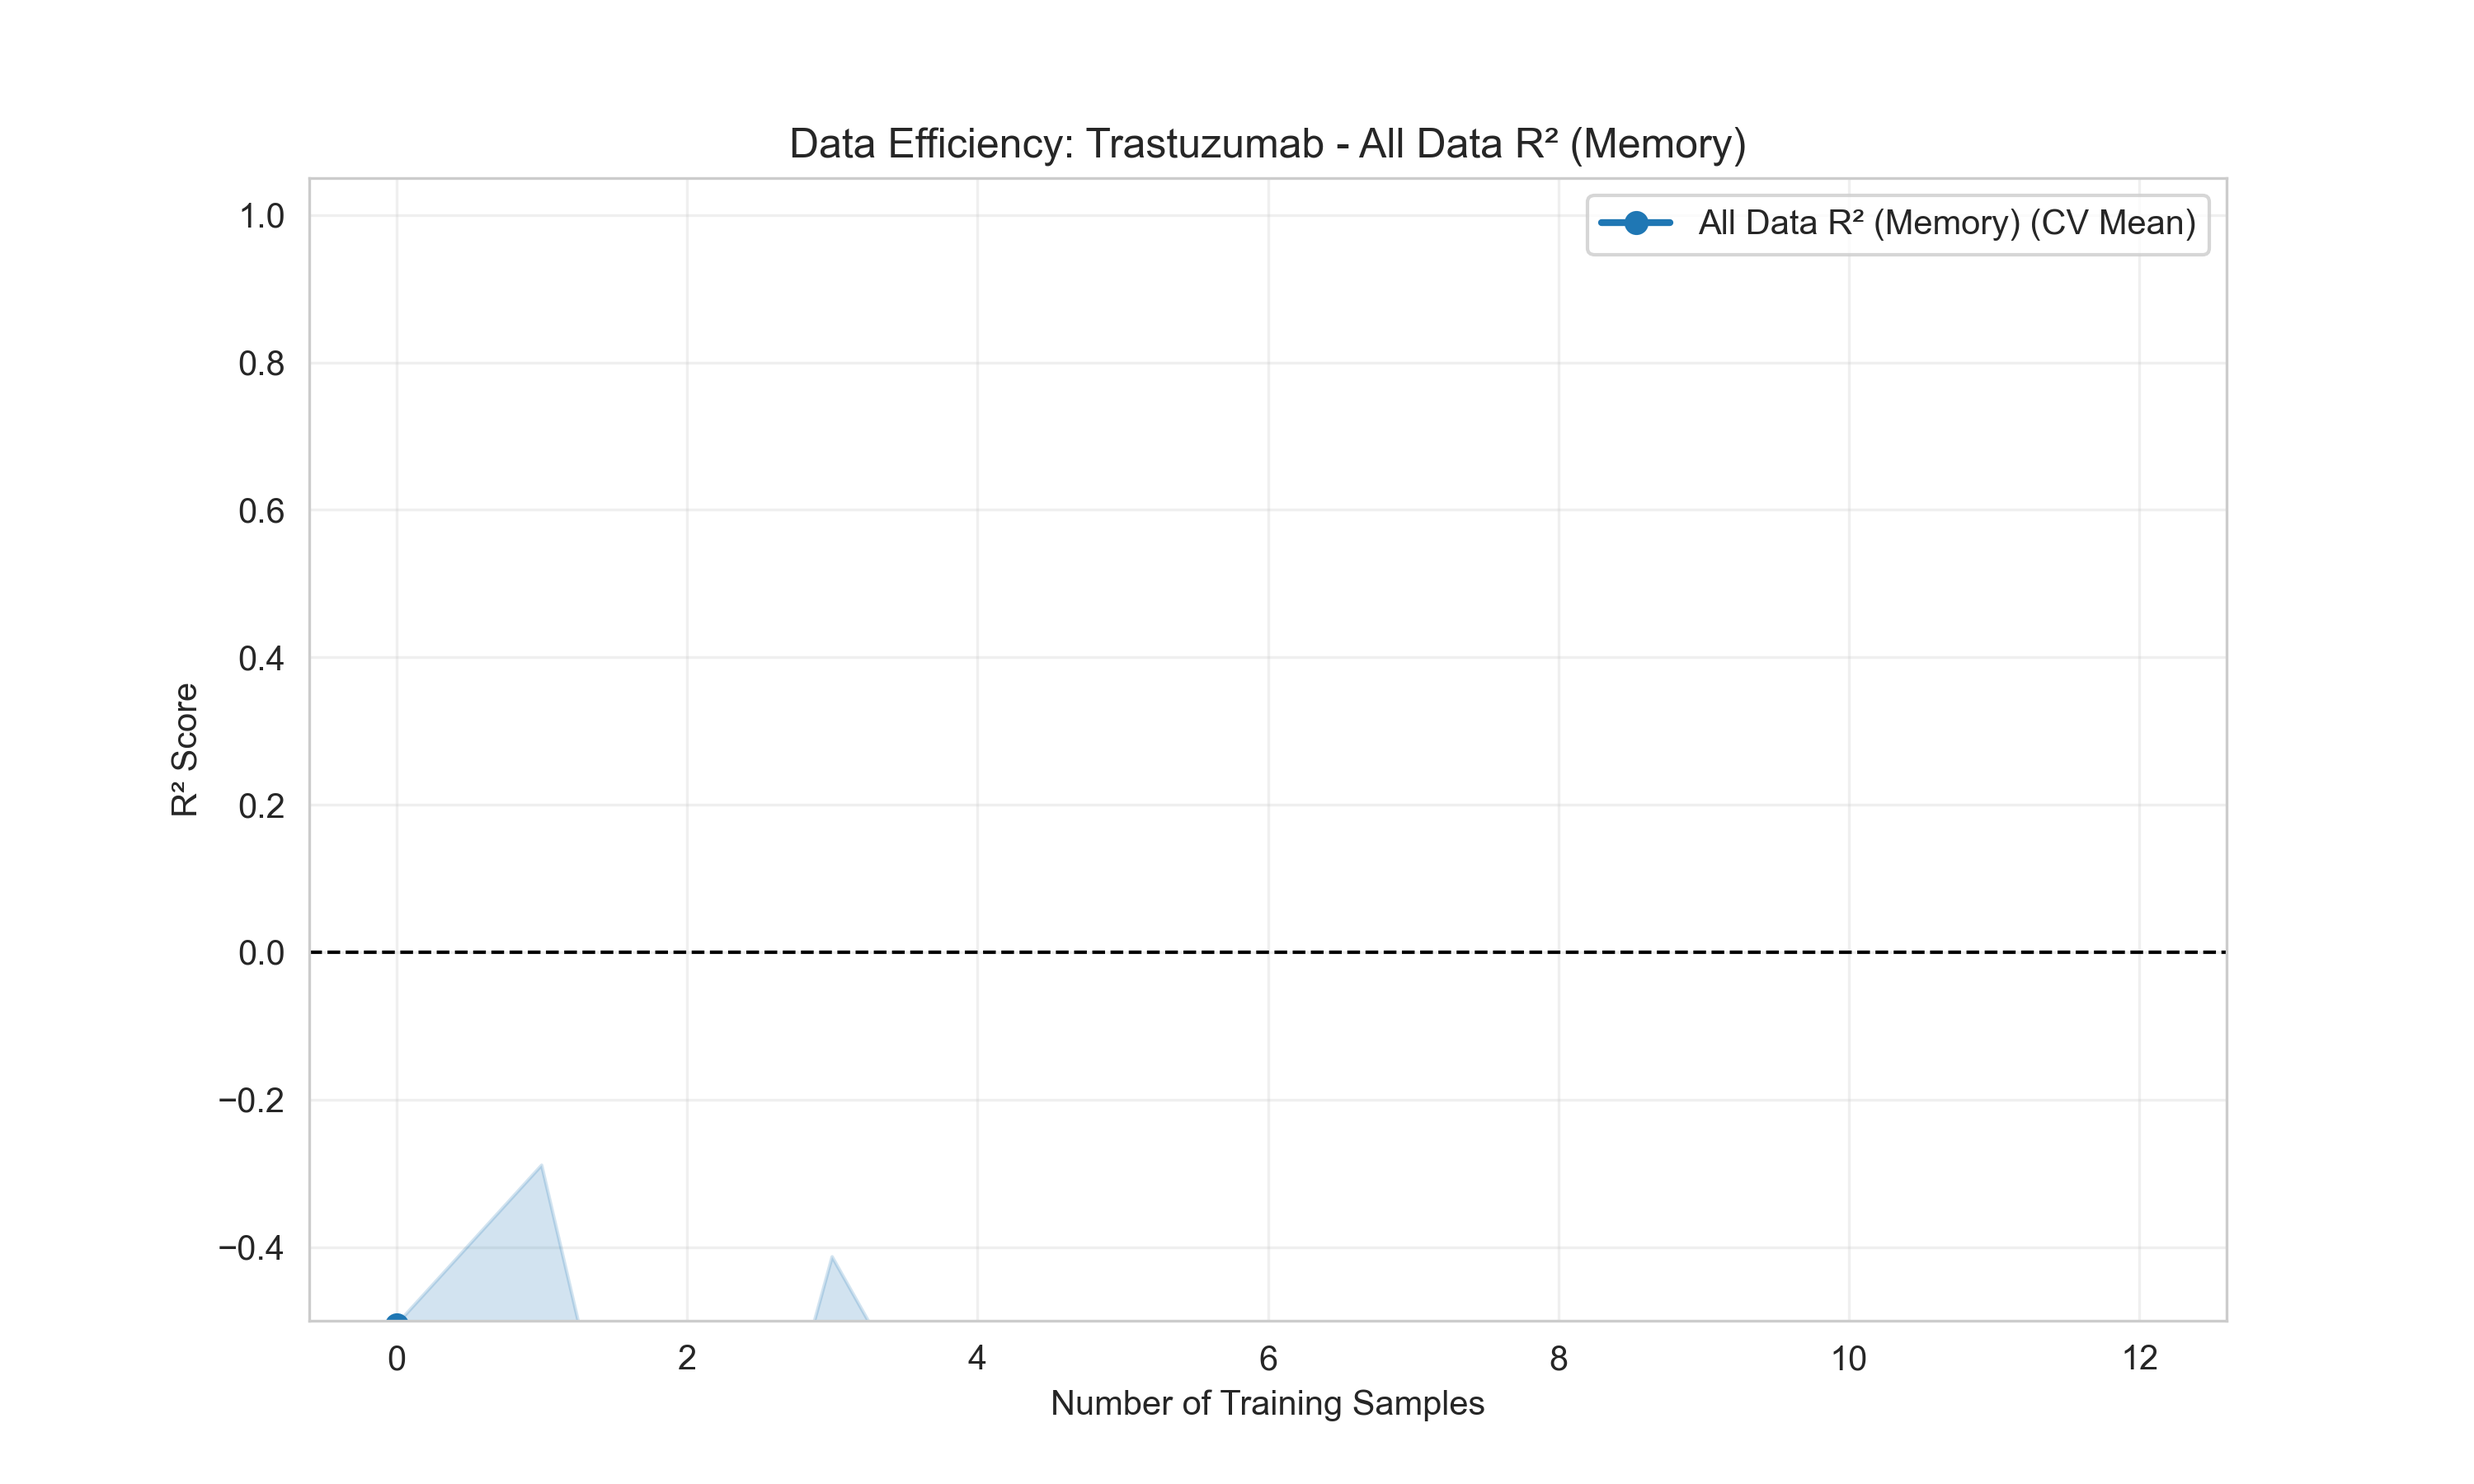
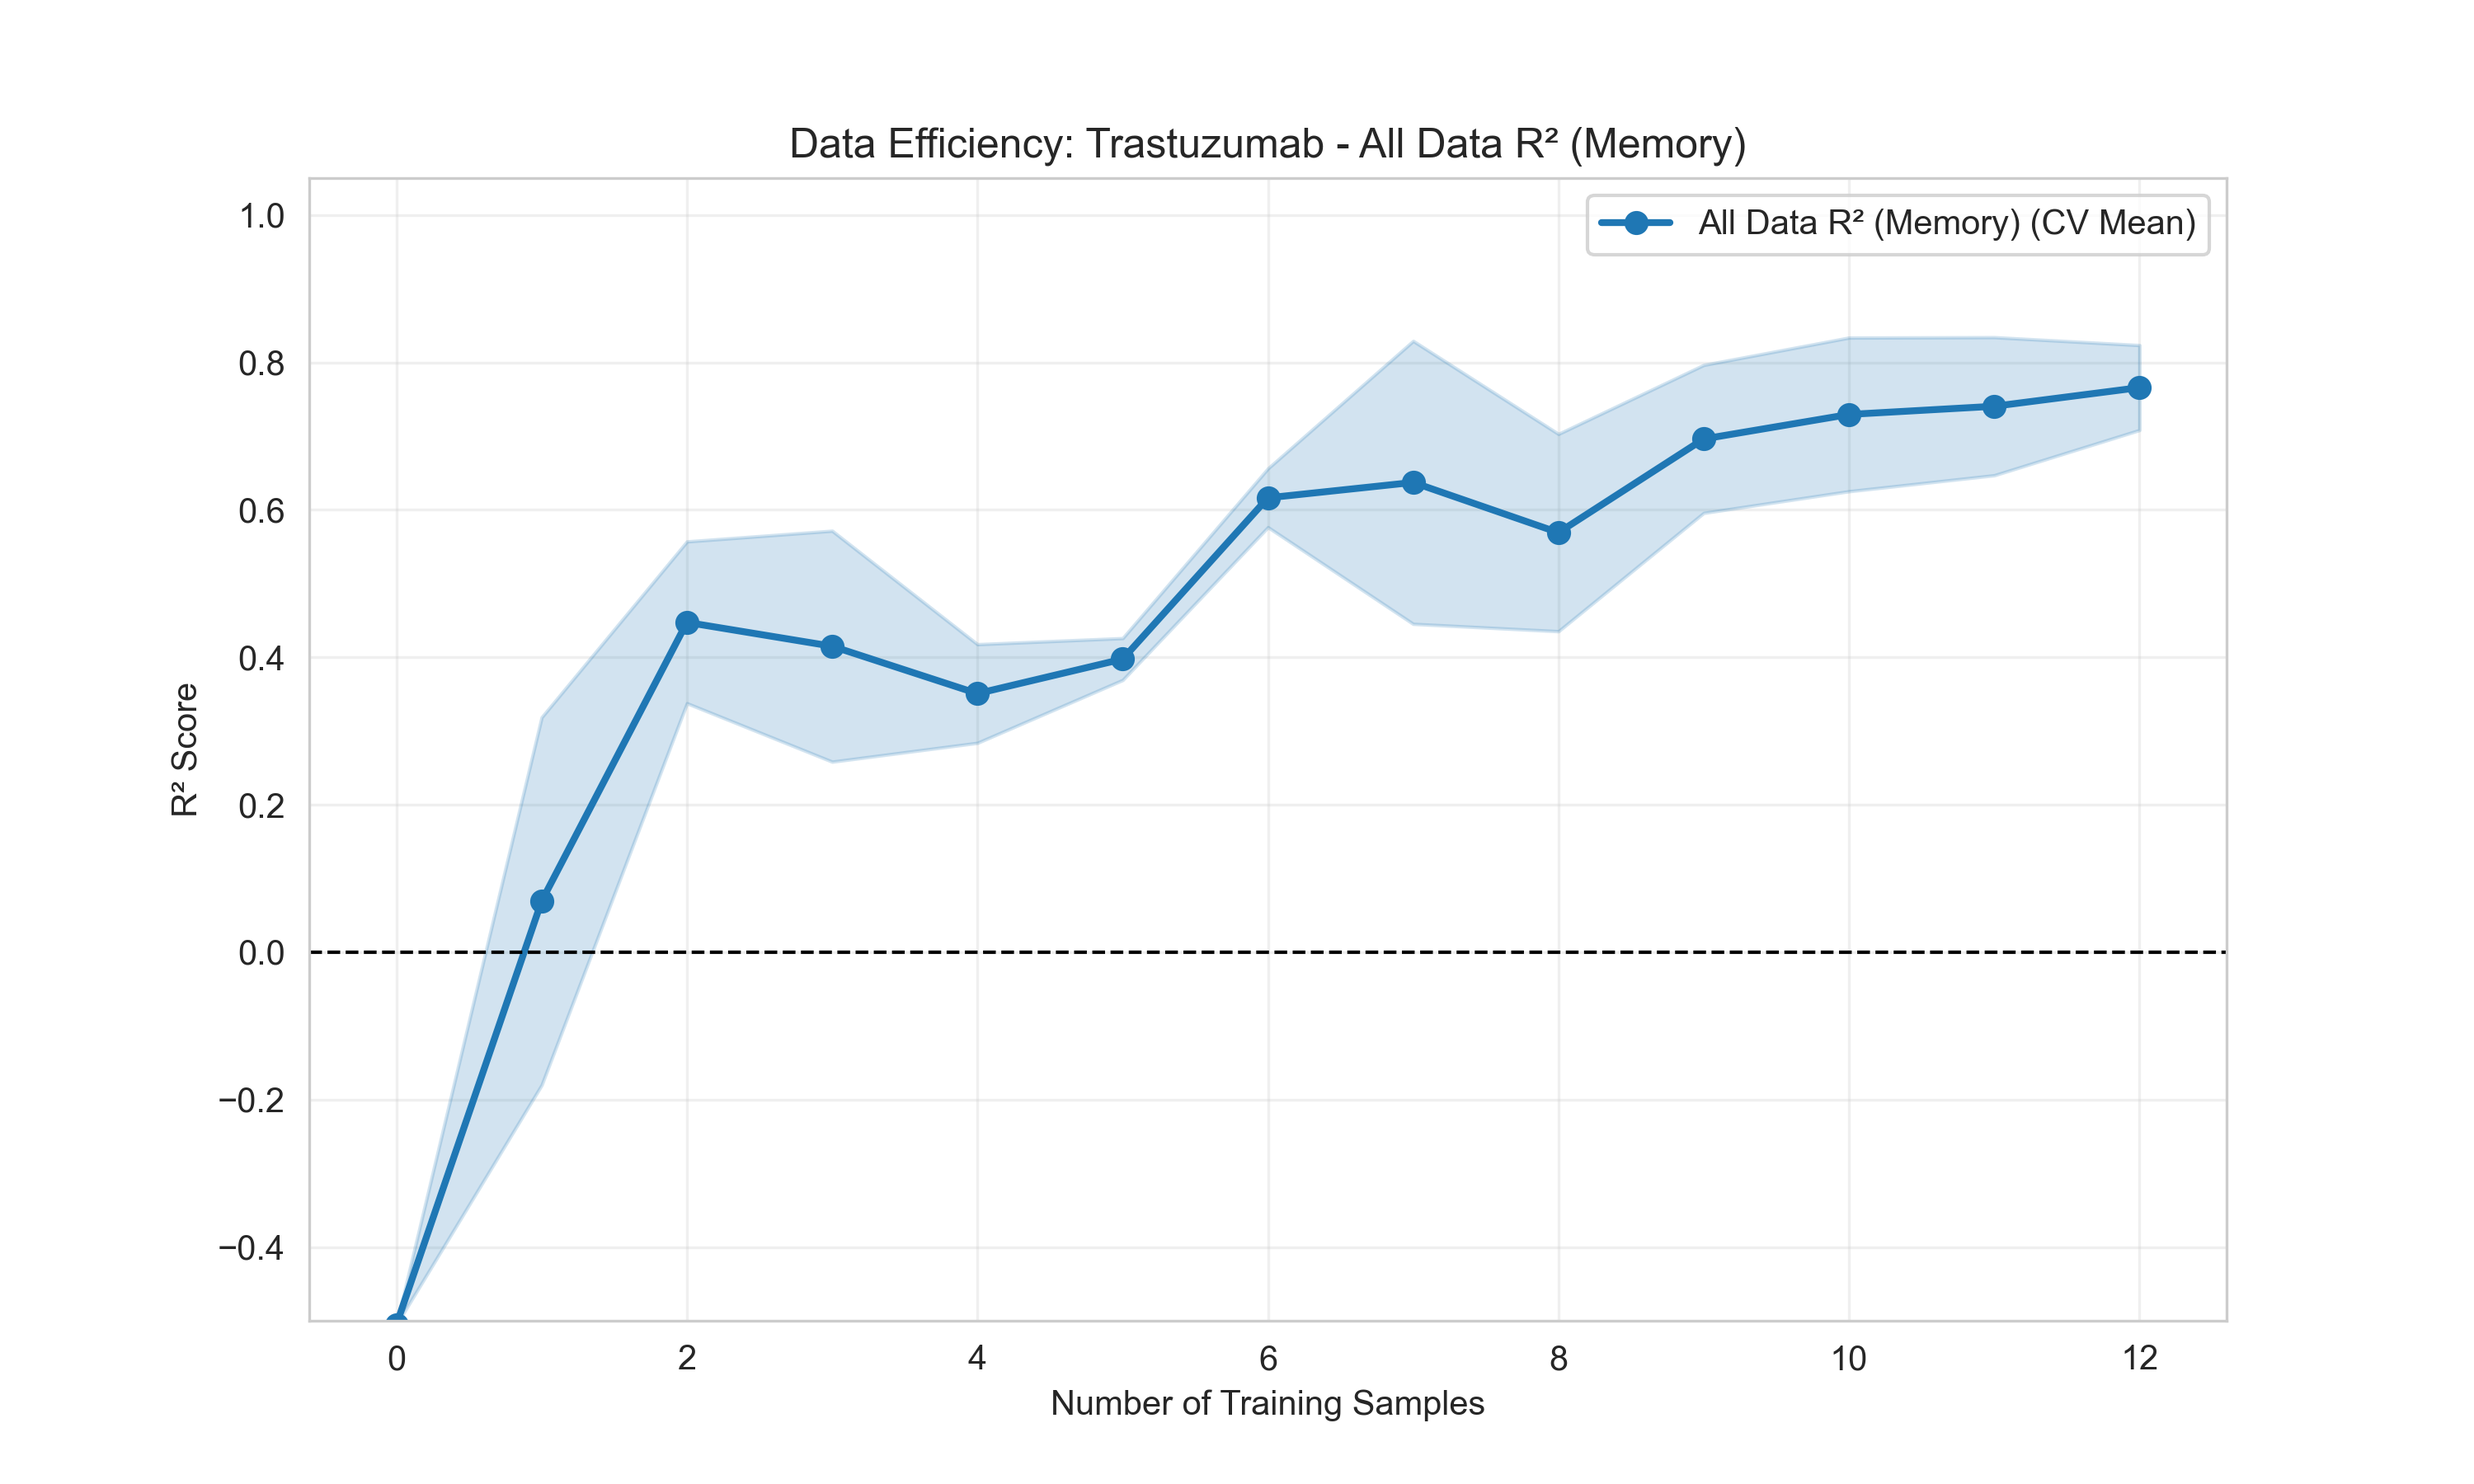
issue with icl on trast

Changed region(s): [[0.155, 0.2178, 0.868, 0.9022], [0.31, 0.84, 0.372, 0.9022]]

diff --git a/ml/test/inference_o_net.py b/ml/test/inference_o_net.py
@@ -314,7 +314,7 @@ class ViscosityPredictorCNP:
         self.device = torch.device("cuda" if torch.cuda.is_available() else "cpu")
         self.model_dir = model_dir
 
-        # Load Preprocessor & Model (Same as before)
+        # Load Preprocessor
         self.preprocessor_path = os.path.join(model_dir, "preprocessor.pkl")
         if not os.path.exists(self.preprocessor_path):
             raise FileNotFoundError(
@@ -322,6 +322,7 @@ class ViscosityPredictorCNP:
             )
         self.preprocessor = joblib.load(self.preprocessor_path)
 
+        # Load Model
         self.model_path = os.path.join(model_dir, "best_model.pth")
         if not os.path.exists(self.model_path):
             raise FileNotFoundError(f"Model checkpoint not found at {self.model_path}")
@@ -341,14 +342,6 @@ class ViscosityPredictorCNP:
         self.model.eval()
         self.cached_memory = None
 
-        # =========================================================
-        # NEW: Affine Adapter Parameters (Scale & Shift)
-        # initialized to Identity (Scale=1.0, Shift=0.0)
-        # =========================================================
-        self.adapter_scale = torch.tensor([1.0], device=self.device, requires_grad=True)
-        self.adapter_shift = torch.tensor([0.0], device=self.device, requires_grad=True)
-        self.is_adapted = False
-
         self.shear_map = {
             "Viscosity_100": 100.0,
             "Viscosity_1000": 1000.0,
@@ -357,6 +350,7 @@ class ViscosityPredictorCNP:
             "Viscosity_15000000": 1.5e7,
         }
 
+        # Categorical columns that need normalization
         self.cat_cols = [
             "Protein_type",
             "Protein_class_type",
@@ -367,7 +361,7 @@ class ViscosityPredictorCNP:
             "Excipient_type",
         ]
 
-        # New Feature Columns
+        # New Feature Columns defined by the update
         self.new_prior_cols = [
             "prior_arginine",
             "prior_lysine",
@@ -572,89 +566,31 @@ class ViscosityPredictorCNP:
         self,
         df: pd.DataFrame,
         fine_tune: bool = True,
-        steps: int = 100,
-        lr: float = 0.05,
+        steps: int = 50,
+        lr: float = 1e-3,
     ):
         """
-        Adapts to new data using a Stability-Constrained Affine Adapter.
-        Uses Model-Centric Pivot to prevent instability at low N.
+        Adapts the model to new data.
+        fine_tune=True (default) updates weights to capture specific effects (e.g. Sucrose sensitivity).
         """
-        # 1. Prepare Data
         static_t, shear_t, visc_t = self._preprocess(df)
         context_t = torch.cat([shear_t, visc_t, static_t], dim=-1)
 
-        # 2. Get Fixed Memory
-        self.model.eval()
+        if fine_tune:
+            self.model.train()
+            # Use a slightly higher LR for fine-tuning to overcome "average" priors
+            optimizer = torch.optim.Adam(self.model.parameters(), lr=lr)
+
+            for _ in range(steps):
+                pred = self.model(context_t, shear_t, static_t)
+                loss = F.mse_loss(pred, visc_t)
+                optimizer.zero_grad()
+                loss.backward()
+                optimizer.step()
+            self.model.eval()
+
         with torch.no_grad():
             self.cached_memory = self.model.encode_memory(context_t)
-            # Pre-calculate the base prediction for these context points
-            base_pred_context = self.model.decode_from_memory(
-                self.cached_memory, shear_t, static_t
-            )
-
-        # NEW: Calculate Pivot from the MODEL'S prediction, not the data.
-        # This is much more stable because the model is smooth.
-        self.pivot_point = torch.mean(base_pred_context).detach()
-
-        if not fine_tune:
-            self.adapter_scale.data.fill_(1.0)
-            self.adapter_shift.data.fill_(0.0)
-            self.is_adapted = False
-            return
-
-        print(f"Optimizing Adapter on {len(df)} samples...")
-
-        # 3. Strategy
-        trainable_params = []
-        if len(df) < 4:
-            print("  Constraint: Small N. Freezing Scale.")
-            self.adapter_scale.data.fill_(1.0)
-            self.adapter_scale.requires_grad = False
-            trainable_params = [self.adapter_shift]
-        else:
-            print("  Constraint: Sufficient N. Learning Scale & Shift.")
-            self.adapter_scale.requires_grad = True
-            trainable_params = [self.adapter_scale, self.adapter_shift]
-
-        optimizer = torch.optim.Adam(trainable_params, lr=lr)
-
-        for i in range(steps):
-            # A. Base Prediction (Frozen)
-            # We already computed base_pred_context, but we need it in the graph if we weren't detaching
-            # Since we only optimize adapter, we can re-use the detached base_pred_context for speed
-            # BUT: PyTorch graph requires re-computation if we want gradients to flow (though here they don't flow back to model)
-            # For safety, let's re-run decoder or just use the detached tensor if we treat base as constant.
-            # Base model is frozen, so base_pred_log is a constant wrt optimizer.
-            # We can use the pre-calculated tensor.
-
-            # B. Apply Adapter
-            # Pred = Pivot + (Base - Pivot) * Scale + Shift
-            adapted_pred_log = (
-                self.pivot_point
-                + (base_pred_context - self.pivot_point) * self.adapter_scale
-                + self.adapter_shift
-            )
-
-            # C. Loss
-            loss = F.mse_loss(adapted_pred_log, visc_t)
-
-            # D. Regularization
-            # Increased Shift regularization to prevent "chasing noise"
-            reg_scale = 1.0 * torch.abs(self.adapter_scale - 1.0)
-            reg_shift = 0.1 * torch.abs(self.adapter_shift)
-
-            total_loss = loss + reg_scale + reg_shift
-
-            optimizer.zero_grad()
-            total_loss.backward()
-            optimizer.step()
-
-            if i % 20 == 0:
-                print(
-                    f"  Step {i}: Loss {loss.item():.4f} | Scale {self.adapter_scale.item():.3f} | Shift {self.adapter_shift.item():.3f}"
-                )
-
-        self.is_adapted = True
 
     def predict(
         self, df: pd.DataFrame, context_df: Optional[pd.DataFrame] = None
@@ -663,7 +599,6 @@ class ViscosityPredictorCNP:
         memory_vector = self.cached_memory
 
         if context_df is not None:
-            # If context provided explicitly, recalculate memory but KEEP existing adapter
             c_static, c_shear, c_visc = self._preprocess(context_df)
             c_tensor = torch.cat([c_shear, c_visc, c_static], dim=-1)
             with torch.no_grad():
@@ -676,16 +611,7 @@ class ViscosityPredictorCNP:
 
         self.model.eval()
         with torch.no_grad():
-            # 1. Base Prediction
             pred_log = self.model.decode_from_memory(memory_vector, q_shear, q_static)
-
-            # 2. Apply Adapter (if adapted)
-            if self.is_adapted:
-                # Use the stored pivot from the learning phase
-                pivot = getattr(self, "pivot_point", 0.0)
-                pred_log = (
-                    pivot + (pred_log - pivot) * self.adapter_scale + self.adapter_shift
-                )
 
         pred_visc = torch.pow(10, pred_log).cpu().numpy().flatten()
 
@@ -711,8 +637,7 @@ class ViscosityPredictorCNP:
         ci_range: Tuple[float, float] = (2.5, 97.5),
     ) -> Tuple[np.ndarray, Dict[str, np.ndarray]]:
         """
-        Runs Monte Carlo Dropout.
-        NOTE: We keep the adapter FIXED during MC sampling.
+        Runs Monte Carlo Dropout and returns format compatible with VisQAI.
         """
         self.model.train()  # Enable Dropout
 
@@ -723,25 +648,11 @@ class ViscosityPredictorCNP:
         q_static, q_shear, _ = self._preprocess(df)
 
         preds_log = []
-
-        # We perform MC dropout on the model, but apply the deterministic adapter
-        # to every sample.
         with torch.no_grad():
             for _ in range(n_samples):
                 out_log = self.model.decode_from_memory(
                     memory_vector, q_shear, q_static
                 )
-
-                # Apply Adapter
-                if self.is_adapted:
-                    # Use the stored pivot from the learning phase
-                    pivot = getattr(self, "pivot_point", 0.0)
-                    pred_log = (
-                        pivot
-                        + (pred_log - pivot) * self.adapter_scale
-                        + self.adapter_shift
-                    )
-
                 preds_log.append(out_log.cpu().numpy())
 
         self.model.eval()
